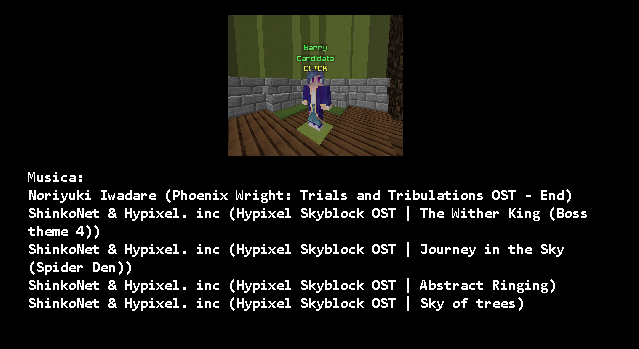
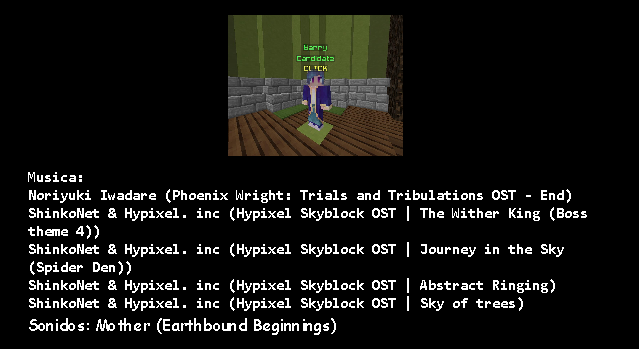
added some credits... and now, it's a gg :'D

Changed region(s): [[0.0297, 0.9169, 0.5352, 0.9742]]

diff --git a/src/scenes/Credits.js b/src/scenes/Credits.js
@@ -14,8 +14,9 @@ class Credits extends Phaser.Scene{
         this.txt_2=this.add.text(320,320, 'Integrantes\nJosé Víctor Cuaya Contreras "EkSha"\nAlejandro Batres Pedroza "ComplexRalex"\nJose Eduardo Guevara Molina "Loleiste172"\nMaria Azucena Flores Sanchez "z²"', { fontFamily: 'monospace' }).setOrigin(0.5)
         this.txt_3=this.add.text(320,430, 'Based department\nJosé Víctor Cuaya Contreras "EkSha"\nAlejandro Batres Pedroza "ComplexRalex"\nJose Eduardo Guevara Molina "Loleiste172"\nMaria Azucena Flores Sanchez "Zuzu_el_regreso"', { fontFamily: 'monospace' }).setOrigin(0.5)
         this.txt_4=this.add.text(320,530, 'Materia\nDesarrollo de videojuegos', { fontFamily: 'monospace' }).setOrigin(0.5)
-        this.txt_5=this.add.text(320,730, 'ALT+F4 para el final secreto', { fontFamily: 'monospace' }).setOrigin(0.5)
-        this.txt_6=this.add.text(320,630, 'Musica\nShinkoNet & Hypixel. inc', { fontFamily: 'monospace' }).setOrigin(0.5)
+        this.txt_5=this.add.text(320,730, 'ALT+F4 para el final secreto (XD)', { fontFamily: 'monospace' }).setOrigin(0.5)
+        this.txt_6=this.add.text(320,595, 'Musica\nShinkoNet & Hypixel. inc', { fontFamily: 'monospace' }).setOrigin(0.5)
+        this.txt_6_5=this.add.text(320,655, 'Sonidos\nMother (Earthbound Beginnings) y varios', { fontFamily: 'monospace' }).setOrigin(0.5)
         this.txt_7=this.add.text(320,830, '[Esc] para salir de esta pantalla', { fontFamily: 'monospace' }).setOrigin(0.5)
         this.container = this.add.container(0,50)
         this.container.add([
@@ -26,6 +27,7 @@ class Credits extends Phaser.Scene{
             this.txt_4,
             this.txt_5,
             this.txt_6,
+            this.txt_6_5,
             this.txt_7
         ])
         
